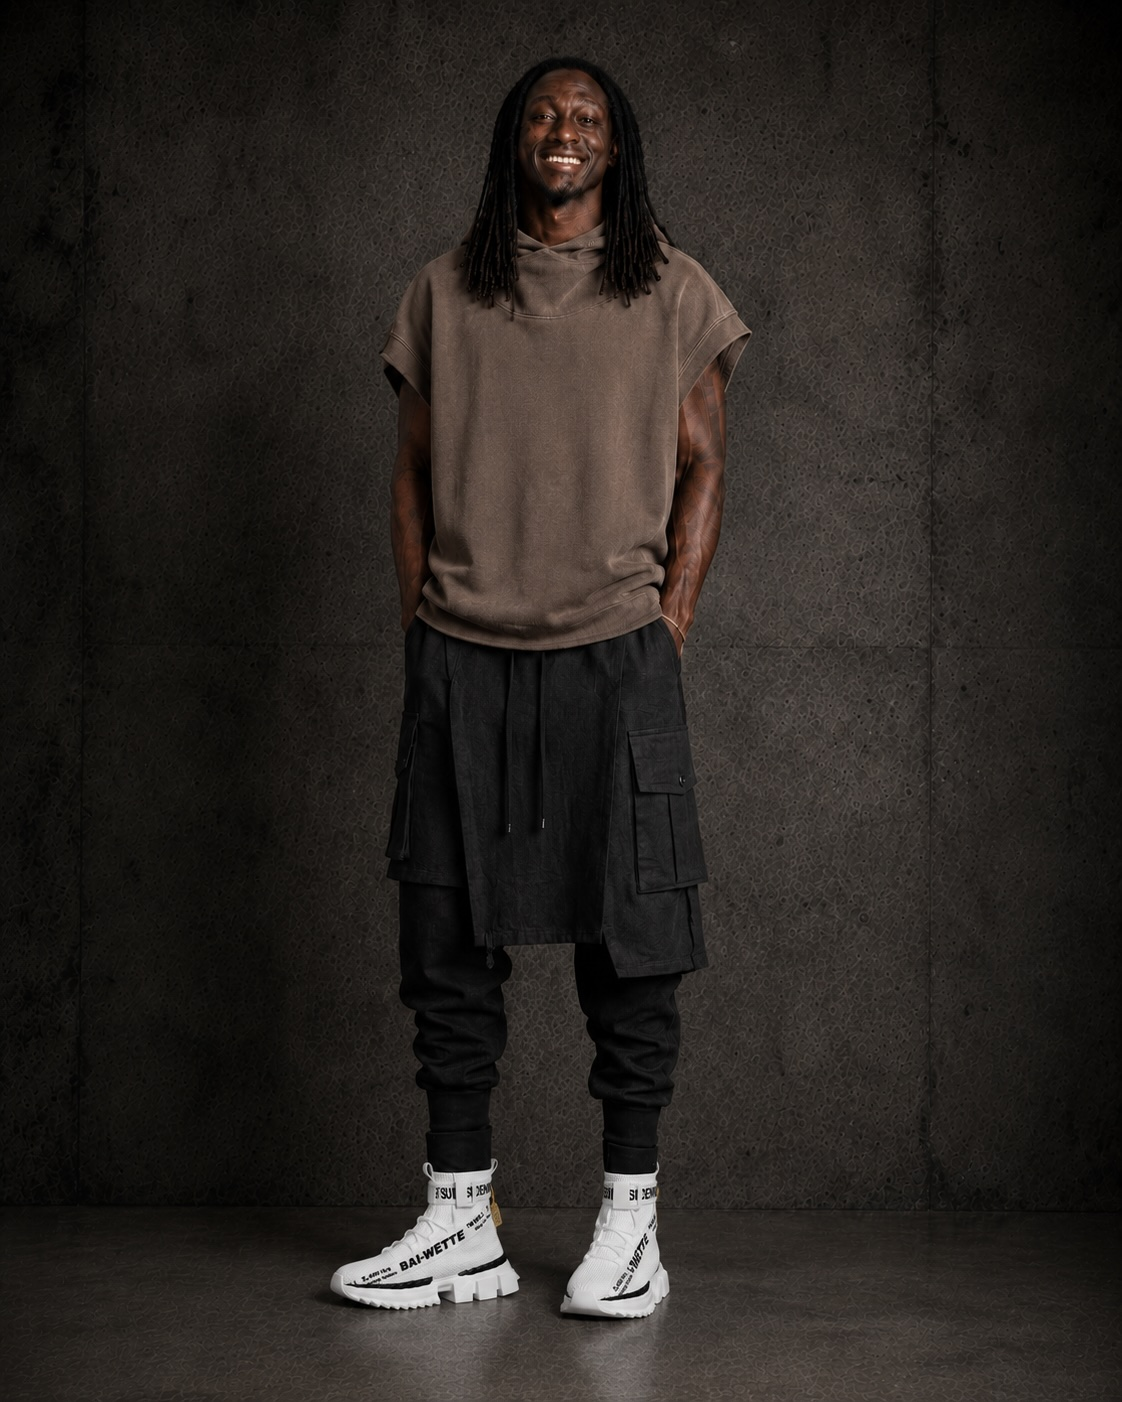
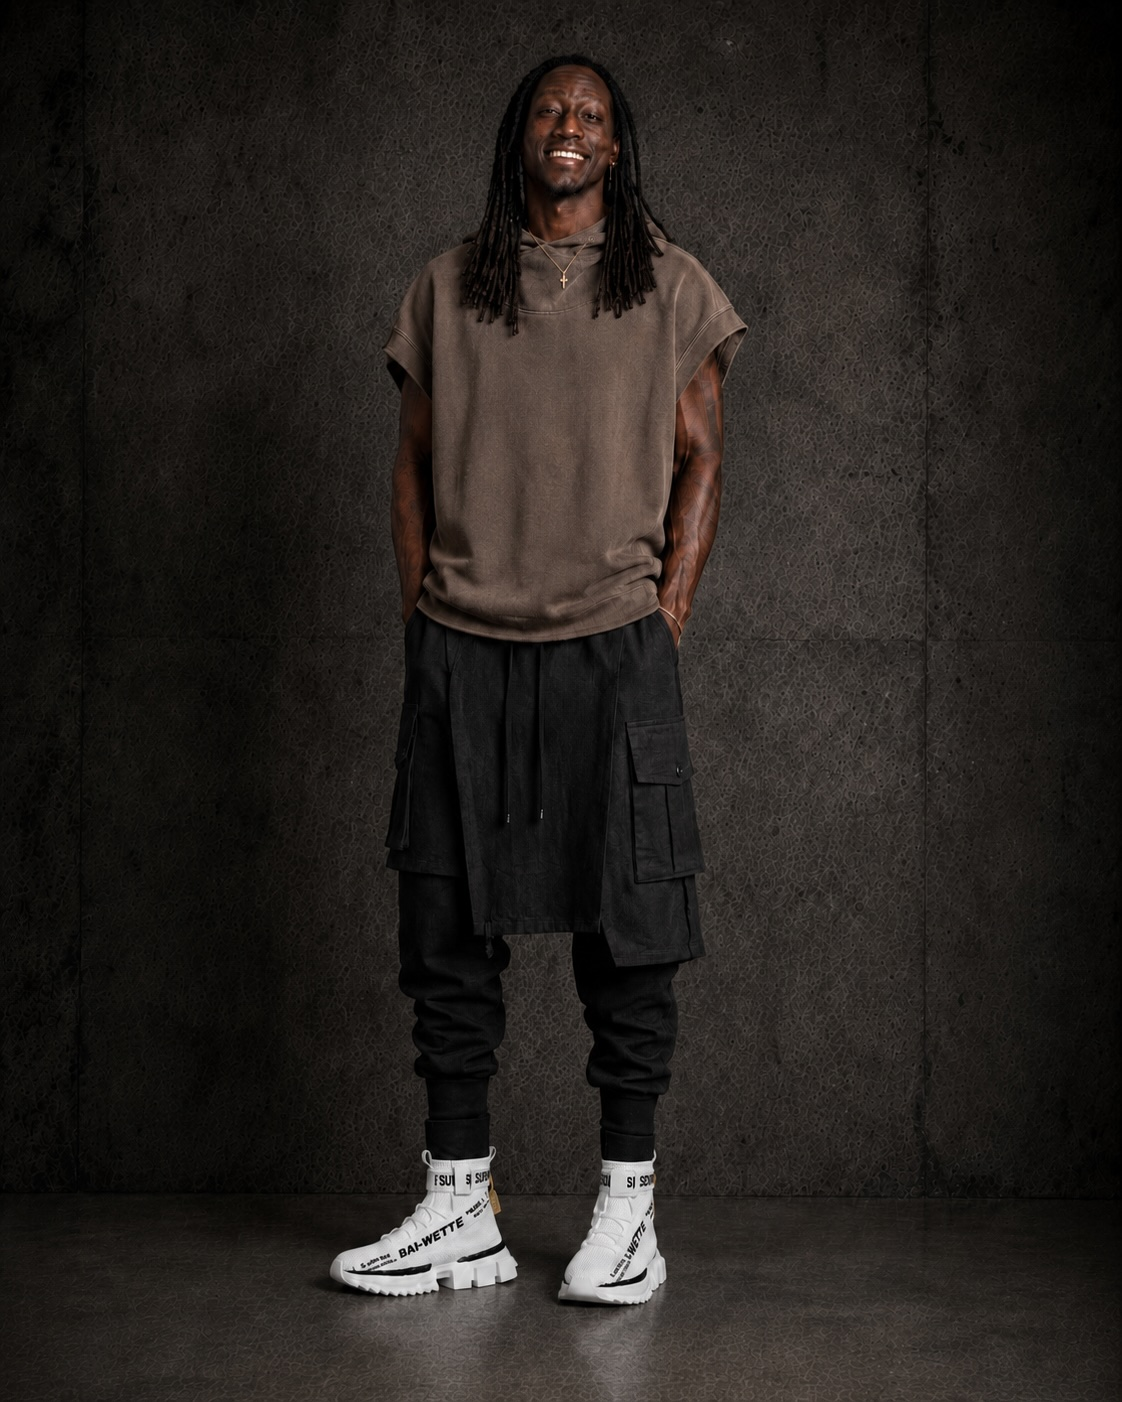
Rebuild shop around core aesthetic; log week's worn outfits; v70
Shop
- Rebuilt shop around dark-avant / deconstructed / dystopian direction
  after calibrating on anchor items (Demonia, Rick Owens, Minoar Fiber Bond)
- Removed bland/saturated filler; final set spans $79–$1,956, weighted
  to thin categories (outerwear + statement shoes), all imaged
- Added Orttu mesh Night Shift tops (Zander, Vander)

Wardrobe / outfits
- Logged 2 worn work looks: #64 Olive Tee + Pinstripe Tailoring (7/28),
  #65 Longline Shirt + Cargo Skirt (7/30), with wear photos
- New items: Zara Interlock Tee (z2), Minoar Cargo Asymmetric Skirt (m21)
- Updated AJ1131 (Toga Virilis) + DMXL (Dr. Martens) boot images
- Wired OUTFIT_PHOTOS entries for #64/#65

Docs
- Added TODO.md (features backlog + parking-lot ideas)
- Added image-generation prompts for #64/#65

DATA_VERSION 58 → 70

diff --git a/data.js b/data.js
@@ -120,8 +120,10 @@ const IMAGES = {
   "Pai-Weite High-Top Sneakers White":"https://infinit.store/cdn/shop/files/Bai-wette_Sneakers_white_INFINIT_STORE.png?v=1746632258",
   "Pai-Weite High-Top Sneakers Black":"https://infinit.store/cdn/shop/files/Sc722121697bd443baaa11c7b80bf442fU.png?v=1746631777",
   "Roman Fabric Boots":"https://cdn-images.farfetch-contents.com/15/55/89/60/15558960_29784883_1000.jpg",
-  "AJ1131 Chelsea Boots":"https://res.cloudinary.com/ssenseweb/image/upload/b_white,c_lpad,g_south,h_706,q_75,w_470/c_scale,h_480/v4/262688M223003_1.jpg",
-  "DMXL Zip Leather Chelsea Boots":"https://res.cloudinary.com/ssenseweb/image/upload/b_white,c_lpad,g_south,h_706,q_75,w_470/c_scale,h_480/v4/261399M223001_1.jpg",
+  "AJ1131 Chelsea Boots":"https://img.ssensemedia.com/images/f_auto,w_auto/262688M223003_4/toga-virilis-ssense-exclusive-black-aj1131-chelsea-boots.jpg",
+  "DMXL Zip Leather Chelsea Boots":"https://cdn.media.amplience.net/i/drmartens/41070001.84?$smart1024$&fmt=auto",
+  "Cargo Asymmetric Skirt":"https://media.minoar.com/2018/05/CARGO-ASYMMETRIC-SKIRT-8.jpg",
+  "Relaxed Fit Interlock T-Shirt":"https://static.zara.net/assets/public/f1fd/2f5f/59814389b5cb/675c65b1adc8/05584431507-e1/05584431507-e1.jpg?ts=1783939045384&w=2240",
   "Double Take Short Black":"https://www.aloyoga.com/cdn/shop/files/M6143R_01_b1_s1_a2_1_m214_1024x1024.jpg?v=1756316493",
   "Double Take Short Espresso":"https://www.aloyoga.com/cdn/shop/files/M6143R_04064_b1_s1_a2_1_m214_1024x1024.jpg?v=1746630413",
   "Raye Print Round Neck T-shirt":"https://img.staticdj.com/65ce5223c257a259fed9300c9018178f.jpeg",
@@ -197,6 +199,7 @@ const WARDROBE_DATA = [
   {id:"m18",name:"Cargo Volume Transform Denim Skirt",brand:"MINOAR",color:"Black",size:"L",cat:"Skirt",type:"bottom",style:"Dark / Minimal",stats:{drama:4,structure:4,skin:2,edge:4,formality:3}},
   {id:"m19",name:"Reverse Edge Hood Buckle Cardigan",brand:"MINOAR",color:"Black",size:"L",cat:"Cardigan",type:"outer",style:"Contrast",stats:{drama:4,structure:4,skin:1,edge:5,formality:2.5}},
   {id:"m20",name:"Nuance Dyed Refract Segment Track Pants",brand:"MINOAR",color:"Grey",size:"L",cat:"Pants",type:"bottom",style:"Dark / Minimal",stats:{drama:3,structure:3,skin:1,edge:3,formality:2}},
+  {id:"m21",name:"Cargo Asymmetric Skirt",brand:"MINOAR",color:"Black",size:"L",cat:"Skirt",type:"bottom",style:"Dark / Minimal",url:"https://www.minoar.com/product/cargo-men-skirt/",stats:{drama:3.5,structure:3,skin:1,edge:3.5,formality:2.5}},
   // ── RYVK Studio ────────────────────────────────────────────────────────────
   {id:"r1",name:"Sheer Contrast Floral Print Shirts",brand:"RYVK",color:"Multi",size:"2XL",cat:"Shirt",type:"top",style:"Contrast",stats:{drama:4,structure:2,skin:3,edge:3,formality:2}},
   {id:"r2",name:"Fever Arc Sequin Embroidery Vest",brand:"RYVK",color:"Black",size:"XL",cat:"Vest",type:"top",style:"Night Out",stats:{drama:5,structure:2,skin:4,edge:4,formality:2}},
@@ -220,6 +223,7 @@ const WARDROBE_DATA = [
   // ── Tops — Techwear Official ───────────────────────────────────────────────
   {id:"tw1",name:"Japanese Relaxed Standing Collar Techwear Shirt",brand:"TECHWEAR",color:"Black",size:"OS",cat:"Shirt",type:"top",style:"Dark / Minimal",url:"https://techwearofficial.com/products/japanese-relaxed-standing-collar-techwear-shirt",stats:{drama:3,structure:3,skin:1,edge:4,formality:3}},
   {id:"z1",name:"Tunic Button-Up Collared Sleeveless",brand:"ZARA",color:"Black",size:"M (worn as men's)",cat:"Vest",type:"outer",style:"Dark / Minimal",url:"https://poshmark.com/listing/Zara-Woman-Womens-Tunic-ButtonUp-Collared-Sleeveless-Black-Polyester-Size-M-6a39a0ec4ba08a69d71db0a4",stats:{drama:4,structure:2,skin:2,edge:3,formality:1}},
+  {id:"z2",name:"Relaxed Fit Interlock T-Shirt",brand:"ZARA",color:"Khaki",size:"M",cat:"T-Shirt",type:"top",style:"Tonal",url:"https://www.zara.com/us/en/relaxed-fit-interlock-t-shirt--04-p05584471.html",stats:{drama:2,structure:1.5,skin:1,edge:2,formality:2}},
   // ── Kids of Eden ───────────────────────────────────────────────────────────
   {id:"koe1",name:"Protanopia Cloak Hoodie",brand:"KOE",color:"Brown",size:"L",cat:"Hoodie",type:"outer",style:"Tonal",img:"https://cdn.shopify.com/s/files/1/0620/3880/2614/products/KIDSOFEDENHEAVYWEIGHTHOODIEMEN_STAUPEFRONT-636740.jpg?v=1683087494",url:"https://kidsofeden.earth/products/protanopia-cloak-hoodie-dust",stats:{drama:2,structure:2,skin:1,edge:2,formality:1}},
   // ── Shoes — Infinitys-Store ────────────────────────────────────────────────
@@ -337,7 +341,9 @@ const OUTFITS_DEFAULT = [
   {id:60,name:"Open Collar",vibe:"Dark / Minimal",tags:["dark"],source:"proposed",proposal:"off-duty",persona:"wanderer",pieces:[{role:"Outer",id:"z1",name:"Tunic Button-Up Collared Sleeveless",brand:"ZARA"},{role:"Bottom",id:"r5",name:"Tone Wave Wide Leg Pants",brand:"RYVK"},{role:"Shoes",id:"pw2",name:"Pai-Weite High-Top Sneakers Black",brand:"JAKCUZ"}]},
   {id:61,name:"Open Collar Day",vibe:"Dark / Minimal",tags:["dark"],source:"proposed",proposal:"off-duty",persona:"civilian",pieces:[{role:"Outer",id:"z1",name:"Tunic Button-Up Collared Sleeveless",brand:"ZARA"},{role:"Bottom",id:"m17",name:"External Cropped Loose Grey Trousers",brand:"MINOAR"},{role:"Shoes",id:"pw1",name:"Pai-Weite High-Top Sneakers White",brand:"JAKCUZ"}]},
   {id:62,name:"Raye Print Lounge",vibe:"Tonal",tags:["tonal"],source:"proposed",proposal:"off-duty",persona:"civilian",pieces:[{role:"Top",id:"mz1",name:"Raye Print Round Neck T-shirt",brand:"MUAZOE"},{role:"Bottom",id:"al1",name:"Double Take Short Black",brand:"ALO"},{role:"Shoes",id:"pw2",name:"Pai-Weite High-Top Sneakers Black",brand:"JAKCUZ"}]},
-  {id:63,name:"Photo Tee Espresso",vibe:"Dark / Minimal",tags:["dark"],source:"proposed",proposal:"off-duty",persona:"civilian",pieces:[{role:"Top",id:"hd1",name:"Mature Photo Tee",brand:"HILARYDUFF"},{role:"Bottom",id:"al2",name:"Double Take Short Espresso",brand:"ALO"},{role:"Shoes",id:"pw1",name:"Pai-Weite High-Top Sneakers White",brand:"JAKCUZ"}]}
+  {id:63,name:"Photo Tee Espresso",vibe:"Dark / Minimal",tags:["dark"],source:"proposed",proposal:"off-duty",persona:"civilian",pieces:[{role:"Top",id:"hd1",name:"Mature Photo Tee",brand:"HILARYDUFF"},{role:"Bottom",id:"al2",name:"Double Take Short Espresso",brand:"ALO"},{role:"Shoes",id:"pw1",name:"Pai-Weite High-Top Sneakers White",brand:"JAKCUZ"}]},
+  {id:64,name:"Olive Tee + Pinstripe Tailoring",vibe:"Tonal",tags:["tonal"],source:"detected",persona:"civilian",pieces:[{role:"Top",id:"z2",name:"Relaxed Fit Interlock T-Shirt",brand:"ZARA"},{role:"Bottom",id:"o3",name:"Roberto Pants",brand:"ORTTU"},{role:"Shoes",id:"pw2",name:"Pai-Weite High-Top Sneakers Black",brand:"JAKCUZ"}]},
+  {id:65,name:"Longline Shirt + Cargo Skirt",vibe:"Layered",tags:["tonal"],source:"detected",persona:"wanderer",pieces:[{role:"Top",id:"o5",name:"Porto Long Shirt",brand:"ORTTU"},{role:"Bottom",id:"m21",name:"Cargo Asymmetric Skirt",brand:"MINOAR"},{role:"Shoes",id:"pw1",name:"Pai-Weite High-Top Sneakers White",brand:"JAKCUZ"}]}
 ];
 
 
@@ -397,7 +403,7 @@ const SHOP = [
     why:"A flowing black cape \u2014 the lightweight, movement-forward third layer for warm-weather nights. Exactly the cape silhouette the whole wardrobe is built around." },
 ];
 
-const DATA_VERSION = 67;
+const DATA_VERSION = 70;
 
 // Item resolution — prefer stable id, fall back to name+brand (rename-safe).
 // Uses the page's live `items` list when present (main app includes custom items),

diff --git a/wardrobe_v2_18.html b/wardrobe_v2_18.html
@@ -1240,6 +1240,20 @@ const WORN_HISTORY_DEFAULT = [
     itemIds: ["am7","m18","pw1"],
     photo: "wear-photos/wear_2026-07-23.jpg",
     notes: "Wore with white sneakers instead of zipped tall boots"
+  },
+  {
+    date: "2026-07-28",
+    outfitId: 64,
+    outfitSource: "detected",
+    itemIds: ["z2","o3","pw2"],
+    photo: "wear-photos/wear_2026-07-28.jpeg"
+  },
+  {
+    date: "2026-07-30",
+    outfitId: 65,
+    outfitSource: "detected",
+    itemIds: ["o5","m21","pw1"],
+    photo: "wear-photos/wear_2026-07-30.jpeg"
   }
 ];
 function getWearCount(type, id) {
@@ -1379,6 +1393,8 @@ const PROPOSAL_PHOTO_PATHS = {
   49: "outfits/outfit_49.jpg",
   50: "outfits/outfit_50.jpg",
   52: "outfits/outfit_52.jpg",
+  64: "outfits/outfit_64.jpg",
+  65: "outfits/outfit_65.jpg",
 };
 // Pre-populate OUTFIT_PHOTOS with proposal paths (relative to HTML file)
 Object.entries(PROPOSAL_PHOTO_PATHS).forEach(([id, path]) => {

diff --git a/outfit_image_prompts_64-65.md b/outfit_image_prompts_64-65.md
@@ -1,0 +1,26 @@
+# Image Prompts — Worn Outfits #64–65 (this week's work looks), with references
+
+Paste the batch below into your ChatGPT wardrobe project. **Best move: also attach your two elevator selfies** (Tue 7/28 = #64, Thu 7/30 = #65) — since you actually wore these, your own photos are the exact reference for fit, drape, and proportion. The product URLs give clean garment detail on top of that.
+
+**Shared style:** full-length fashion lookbook photo, vertical 4:5, one subject facing camera — tall, lean, athletic, long locs, editorial presence. Clean seamless neutral or soft industrial backdrop, soft directional light. Ethos for these two: **earthy, tailored-relaxed, tonal everyday-luxe** (your work register — not the dark avant board). High-waisted proportion, elongated torso. Photoreal, matte, no text/logos/props. Match each garment to its reference exactly (cut, color, length).
+
+---
+
+## BATCH — #64, #65
+> Generate these **2** as a cohesive set (same subject, framing, lighting; full-length 4:5). Match each garment to its reference. Attach my two worn selfies if possible.
+>
+> **1. #64 — Olive Tee + Pinstripe Tailoring** (Tuesday) — olive/khaki relaxed interlock crew tee, lightly tucked into high-waisted grey pinstripe pleated tapered trousers cropped at the ankle · black chunky high-top sneakers · gold rope chain, gold bracelet, stacked rings, black watch · black crossbody strap across chest.
+> - Worn reference (exact): attach `wear_2026-07-28` selfie
+> - Tee (khaki, Zara interlock): https://static.zara.net/assets/public/f1fd/2f5f/59814389b5cb/675c65b1adc8/05584431507-e1/05584431507-e1.jpg?ts=1783939045384&w=2240
+> - Trousers (grey pinstripe, Orttu Roberto): https://cdn.shopify.com/s/files/1/0033/3676/5493/products/22_1a50a9e6-0274-4348-8bc1-1a5a5dfd1b7e.jpg?v=1671137917
+> - Sneakers (black, Pai-Weite high-top): https://infinit.store/cdn/shop/files/Sc722121697bd443baaa11c7b80bf442fU.png?v=1746631777
+>
+> **2. #65 — Longline Shirt + Cargo Skirt** (Thursday) — pale chartreuse pinstripe longline button-up shirt worn open and loose, sleeves rolled to the elbow, cinched with a self-tie sash at the waist · black asymmetric cargo skirt (knee-length) layered underneath · cream/white chunky high-top sneakers · gold chain, watch · black crossbody strap.
+> - Worn reference (exact): attach `wear_2026-07-30` selfie
+> - Shirt (chartreuse pinstripe longline, Orttu Porto) — no clean product link; match to the worn selfie
+> - Skirt (black asymmetric cargo, Minoar): https://media.minoar.com/2018/05/CARGO-ASYMMETRIC-SKIRT-8.jpg
+> - Sneakers (white, Pai-Weite high-top): https://infinit.store/cdn/shop/files/Bai-wette_Sneakers_white_INFINIT_STORE.png?v=1746632258
+
+---
+
+**After generating:** save as `outfits/outfit_64.jpg` and `outfits/outfit_65.jpg` in the wardrobe folder — they'll auto-appear on the board (the app falls back to `outfits/outfit_<id>.jpg`).
